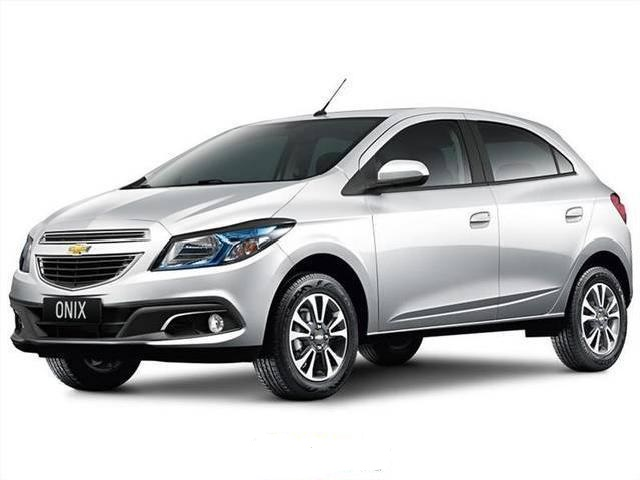
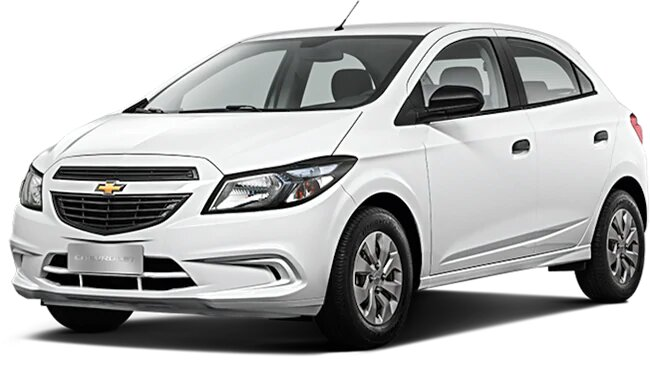
Cambios de imagenes de autos en vista flota

diff --git a/vistas/modulos/flota.php b/vistas/modulos/flota.php
@@ -1,4 +1,3 @@
-<?php echo date('Y'); ?>
 <section class="gallery-block cards-gallery">
     <div class="container">
         <div class="heading">
@@ -19,12 +18,12 @@
             </div>-->
             <div class="col-md-6 col-lg-3">
                 <div class="card border-0 transform-on-hover">
-                    <a class="lightbox" href="vistas/images/flota/full/corsa.jpg">
-                        <img src="vistas/images/flota/recent/corsa.jpg" alt="Card Image" class="card-img-top">
+                    <a class="lightbox" href="vistas/images/flota/full/onix.jpg">
+                        <img src="vistas/images/flota/recent/onix.jpg" alt="Card Image" class="card-img-top">
                     </a>
                     <div class="card-body">
                         <h6><a href="#">Categoria A</a></h6>
-                        <p class="text-muted card-text">Chevrolet Corsa 5 Puertas</p>
+                        <p class="text-muted card-text">Chevrolet Onix 5 Puertas</p>
                         <p>4 Puertas - Naftero - Aire Acondicionado - Dirección Asistida - ABS - Airbag</p>
                     </div>
                 </div>
@@ -61,6 +60,18 @@
                     <div class="card-body">
                         <h6><a href="#">Categoria B</a></h6>
                         <p class="text-muted card-text">Renault Sandero</p>
+                        <p>4 Puertas - Naftero - Aire Acondicionado - Dirección Asistida - ABS - Airbag - MP3 - USB - Bluetooth</p>
+                    </div>
+                </div>
+            </div>
+            <div class="col-md-6 col-lg-3">
+                <div class="card border-0 transform-on-hover">
+                    <a class="lightbox" href="vistas/images/flota/full/prisma.jpg">
+                        <img src="vistas/images/flota/recent/prisma.jpg" alt="Card Image" class="card-img-top">
+                    </a>
+                    <div class="card-body">
+                        <h6><a href="#">Categoria B</a></h6>
+                        <p class="text-muted card-text">Chevrolet Prisma</p>
                         <p>4 Puertas - Naftero - Aire Acondicionado - Dirección Asistida - ABS - Airbag - MP3 - USB - Bluetooth</p>
                     </div>
                 </div>
